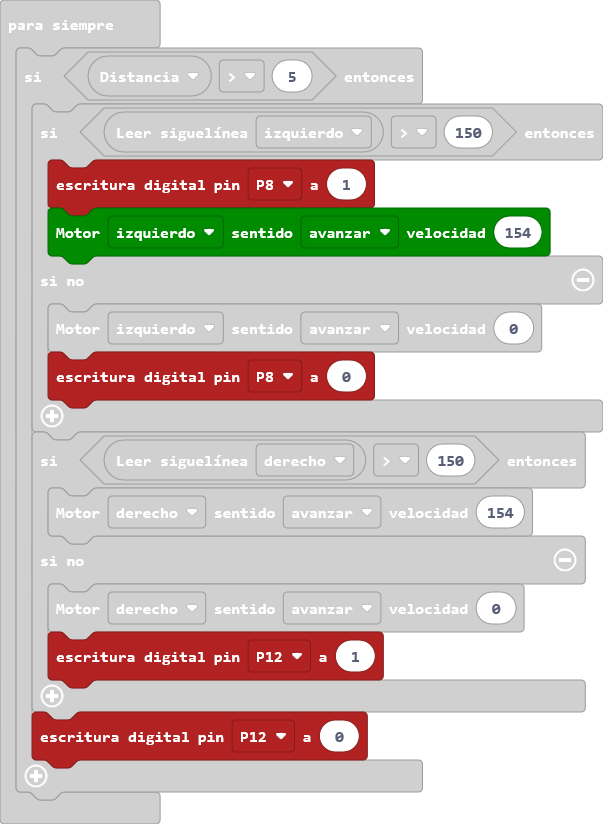
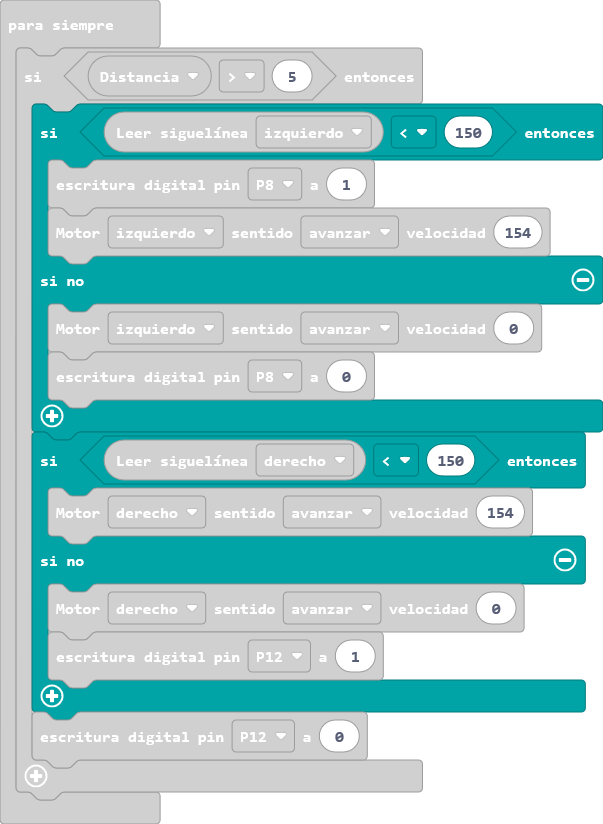
Actualizar main.blocks, main.ts

diff --git a/main.ts b/main.ts
@@ -1,14 +1,14 @@
 let Distancia = maqueen.Ultrasonic(PingUnit.Centimeters)
 basic.forever(function () {
     if (Distancia > 5) {
-        if (maqueen.readPatrol(maqueen.Patrol.PatrolLeft) > 150) {
+        if (maqueen.readPatrol(maqueen.Patrol.PatrolLeft) < 150) {
             pins.digitalWritePin(DigitalPin.P8, 1)
             maqueen.motorRun(maqueen.Motors.M1, maqueen.Dir.CW, 154)
         } else {
             maqueen.motorRun(maqueen.Motors.M1, maqueen.Dir.CW, 0)
             pins.digitalWritePin(DigitalPin.P8, 0)
         }
-        if (maqueen.readPatrol(maqueen.Patrol.PatrolRight) > 150) {
+        if (maqueen.readPatrol(maqueen.Patrol.PatrolRight) < 150) {
             maqueen.motorRun(maqueen.Motors.M2, maqueen.Dir.CW, 154)
         } else {
             maqueen.motorRun(maqueen.Motors.M2, maqueen.Dir.CW, 0)
